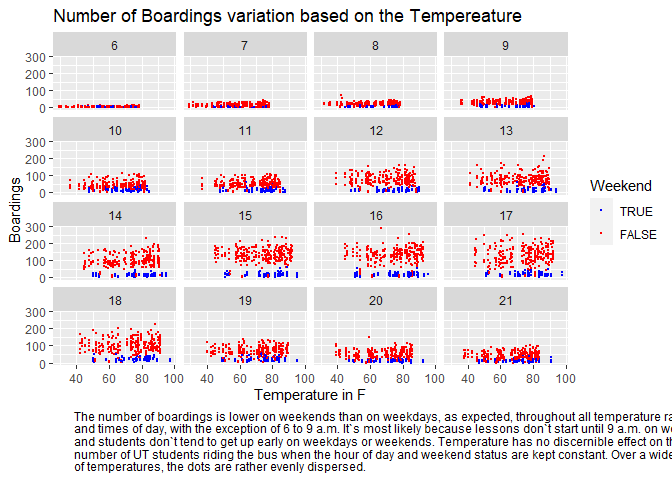
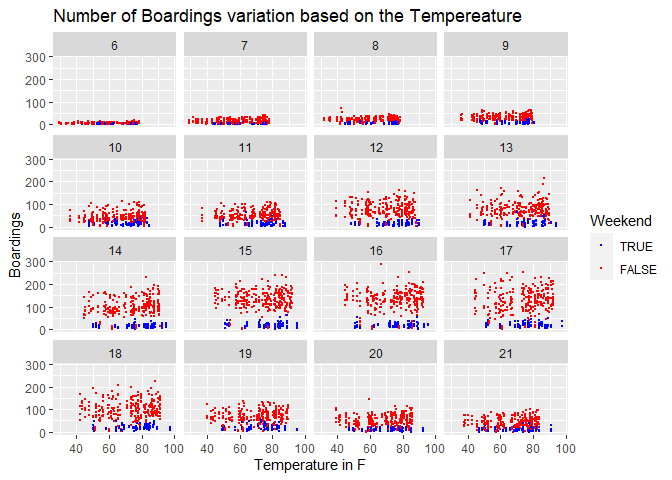
Final Commit

diff --git a/HW2_RM.md b/HW2_RM.md
@@ -2,13 +2,15 @@
 
 ![](HW2_RM_files/figure-markdown_strict/unnamed-chunk-3-1.png)
 
-### On weekdays, the average number of boardings is roughly the same, and on weekends, it drops as expected. On weekdays, the peak hour of boarding numbers remains consistent between 3 and 5 pm for all three months, owing to the fact that classes normally complete around that time. The average boardings on Mondays in September are lower due to Labor Day, which falls on the first Monday of the month, and those on Wednesdays, Thursdays, and Fridays in November due to the Thanksgiving holidays)
+### On weekdays, the average number of boardings is roughly the same, and on weekends, it drops as expected. On weekdays, the peak hour of boarding numbers remains consistent between 3 and 5 pm for all three months, owing to the fact that classes normally complete around that time. The average boardings on Mondays in September are lower due to Labor Day, which falls on the first Monday of the month, and those on Wednesdays, Thursdays, and Fridays in November due to the Thanksgiving holidays).
 
 ![](HW2_RM_files/figure-markdown_strict/unnamed-chunk-5-1.png)
 
+### The number of boardings is lower on weekends than on weekdays, as expected, throughout all temperature ranges and times of day, with the exception of 6 to 9 a.m. It’s most likely because lessons don’t start until 9 a.m. on weekdays, and students don’t tend to get up early on weekdays or weekends. Temperature has no discernible effect on the number of UT students riding the bus when the hour of day and weekend status are kept constant. Over a wide range of temperatures, the dots are rather evenly dispersed.
+
 ## Question 2. Saratoga house prices
 
-### The linear model seems better at achieving lower out-of sample mean-squared error. This model is particularly useful since it allows us to identify which variables have a substantial impact on property prices. House prices are influenced by factors such as lot size, land value, living area, waterfront, and central air conditioning. All of them have a positive relationship with home prices.
+### The linear model appears to have a better out-of-sample mean-squared error. This model is especially useful since it enables us to determine which variables have a significant impact on property values. Lot size, property value, living area, waterfront, and central air conditioning are all elements that influence house pricing. They all have a favorable correlation with housing prices.
 
 ### Output for linear regression model is as follows:
 
@@ -19,48 +21,48 @@
     ## 
     ## Residuals:
     ##     Min      1Q  Median      3Q     Max 
-    ## -220402  -34540   -5128   27705  461251 
+    ## -225936  -35206   -5168   28230  459848 
     ## 
     ## Coefficients:
     ##                          Estimate Std. Error t value Pr(>|t|)    
-    ## (Intercept)             1.847e+05  2.306e+04   8.010 2.25e-15 ***
-    ## lotSize                 1.012e+04  2.368e+03   4.273 2.05e-05 ***
-    ## age                    -7.807e+01  5.974e+01  -1.307  0.19152    
-    ## landValue               8.539e-01  4.917e-02  17.367  < 2e-16 ***
-    ## livingArea              6.782e+01  4.896e+00  13.853  < 2e-16 ***
-    ## bedrooms               -8.189e+03  2.721e+03  -3.009  0.00266 ** 
-    ## fireplaces              2.347e+03  3.067e+03   0.765  0.44426    
-    ## bathrooms               3.299e+03  7.854e+03   0.420  0.67449    
-    ## rooms                  -1.592e+03  2.134e+03  -0.746  0.45567    
-    ## heatinghot water/steam -8.792e+03  4.350e+03  -2.021  0.04345 *  
-    ## heatingelectric        -1.445e+03  1.254e+04  -0.115  0.90825    
-    ## fuelelectric           -7.236e+03  1.232e+04  -0.587  0.55702    
-    ## fueloil                -3.536e+03  4.961e+03  -0.713  0.47612    
-    ## waterfrontNo           -1.204e+05  1.716e+04  -7.017 3.40e-12 ***
-    ## centralAirNo           -9.728e+03  3.588e+03  -2.711  0.00678 ** 
-    ## bathrooms:rooms         2.410e+03  9.851e+02   2.446  0.01455 *  
+    ## (Intercept)             1.935e+05  2.217e+04   8.726  < 2e-16 ***
+    ## lotSize                 1.011e+04  2.372e+03   4.263 2.14e-05 ***
+    ## age                    -6.664e+01  6.026e+01  -1.106 0.269004    
+    ## landValue               8.556e-01  4.813e-02  17.778  < 2e-16 ***
+    ## livingArea              6.477e+01  4.960e+00  13.059  < 2e-16 ***
+    ## bedrooms               -7.028e+03  2.701e+03  -2.602 0.009351 ** 
+    ## fireplaces              3.146e+03  3.123e+03   1.007 0.313913    
+    ## bathrooms               5.870e+03  7.864e+03   0.746 0.455520    
+    ## rooms                  -1.689e+03  2.145e+03  -0.787 0.431172    
+    ## heatinghot water/steam -7.486e+03  4.383e+03  -1.708 0.087866 .  
+    ## heatingelectric         2.880e+03  1.291e+04   0.223 0.823526    
+    ## fuelelectric           -1.401e+04  1.274e+04  -1.099 0.271801    
+    ## fueloil                -6.805e+03  5.035e+03  -1.352 0.176730    
+    ## waterfrontNo           -1.267e+05  1.552e+04  -8.162 6.79e-16 ***
+    ## centralAirNo           -1.300e+04  3.617e+03  -3.593 0.000337 ***
+    ## bathrooms:rooms         2.202e+03  9.800e+02   2.247 0.024786 *  
     ## ---
     ## Signif. codes:  0 '***' 0.001 '**' 0.01 '*' 0.05 '.' 0.1 ' ' 1
     ## 
-    ## Residual standard error: 57800 on 1539 degrees of freedom
-    ## Multiple R-squared:  0.6547, Adjusted R-squared:  0.6513 
-    ## F-statistic: 194.5 on 15 and 1539 DF,  p-value: < 2.2e-16
+    ## Residual standard error: 58460 on 1539 degrees of freedom
+    ## Multiple R-squared:  0.6539, Adjusted R-squared:  0.6505 
+    ## F-statistic: 193.9 on 15 and 1539 DF,  p-value: < 2.2e-16
 
 ## Question 3. Classification and retrospective sampling
 
 ![](HW2_RM_files/figure-markdown_strict/unnamed-chunk-11-1.png)
 
     ##         (Intercept)            duration              amount         installment 
-    ##                0.44                1.03                1.00                1.29 
+    ##                0.41                1.03                1.00                1.33 
     ##                 age         historypoor     historyterrible          purposeedu 
-    ##                0.98                0.27                0.12                1.32 
+    ##                0.98                0.35                0.14                2.12 
     ## purposegoods/repair       purposenewcar      purposeusedcar       foreigngerman 
-    ##                1.16                2.44                0.58                0.37
+    ##                1.19                2.66                0.44                0.14
 
     ##    yhat
     ## y     0   1
-    ##   0 161  15
-    ##   1  60  14
+    ##   0 160  26
+    ##   1  45  19
 
 <table>
 <thead>
@@ -111,14 +113,14 @@
 </tr>
 <tr class="even">
 <td style="text-align: left;">baseline2</td>
-<td style="text-align: right;">0.0558459</td>
-<td style="text-align: right;">0.0016681</td>
+<td style="text-align: right;">0.0453920</td>
+<td style="text-align: right;">0.0014505</td>
 <td style="text-align: right;">0.7</td>
 </tr>
 <tr class="odd">
 <td style="text-align: left;">LPM</td>
-<td style="text-align: right;">0.0283356</td>
-<td style="text-align: right;">0.0008945</td>
+<td style="text-align: right;">0.0277854</td>
+<td style="text-align: right;">0.0009912</td>
 <td style="text-align: right;">0.7</td>
 </tr>
 <tr class="even">
@@ -129,32 +131,32 @@
 </tr>
 <tr class="odd">
 <td style="text-align: left;">baseline2</td>
-<td style="text-align: right;">0.0921596</td>
-<td style="text-align: right;">0.0029252</td>
+<td style="text-align: right;">0.0803301</td>
+<td style="text-align: right;">0.0032636</td>
 <td style="text-align: right;">0.5</td>
 </tr>
 <tr class="even">
 <td style="text-align: left;">LPM</td>
-<td style="text-align: right;">0.0902338</td>
-<td style="text-align: right;">0.0034329</td>
+<td style="text-align: right;">0.0797799</td>
+<td style="text-align: right;">0.0036988</td>
 <td style="text-align: right;">0.5</td>
 </tr>
 <tr class="odd">
 <td style="text-align: left;">baseline1</td>
-<td style="text-align: right;">0.0002751</td>
+<td style="text-align: right;">0.0000000</td>
 <td style="text-align: right;">0.0000000</td>
 <td style="text-align: right;">0.2</td>
 </tr>
 <tr class="even">
 <td style="text-align: left;">baseline2</td>
-<td style="text-align: right;">0.1389271</td>
-<td style="text-align: right;">0.0109755</td>
+<td style="text-align: right;">0.1224209</td>
+<td style="text-align: right;">0.0118699</td>
 <td style="text-align: right;">0.2</td>
 </tr>
 <tr class="odd">
 <td style="text-align: left;">LPM</td>
-<td style="text-align: right;">0.1345254</td>
-<td style="text-align: right;">0.0122567</td>
+<td style="text-align: right;">0.1185695</td>
+<td style="text-align: right;">0.0127886</td>
 <td style="text-align: right;">0.2</td>
 </tr>
 </tbody>
@@ -180,131 +182,131 @@
 <tbody>
 <tr class="odd">
 <td style="text-align: left;">Fold01</td>
-<td style="text-align: left;">19</td>
-<td style="text-align: left;">19</td>
+<td style="text-align: left;">20</td>
+<td style="text-align: left;">20</td>
 <td style="text-align: left;">0</td>
 </tr>
 <tr class="even">
 <td style="text-align: left;">Fold02</td>
 <td style="text-align: left;">22</td>
-<td style="text-align: left;">21</td>
-<td style="text-align: left;">-1</td>
-</tr>
-<tr class="odd">
-<td style="text-align: left;">Fold03</td>
-<td style="text-align: left;">22</td>
-<td style="text-align: left;">20</td>
-<td style="text-align: left;">-2</td>
-</tr>
-<tr class="even">
-<td style="text-align: left;">Fold04</td>
-<td style="text-align: left;">18</td>
-<td style="text-align: left;">24</td>
-<td style="text-align: left;">6</td>
-</tr>
-<tr class="odd">
-<td style="text-align: left;">Fold05</td>
-<td style="text-align: left;">22</td>
-<td style="text-align: left;">20</td>
-<td style="text-align: left;">-2</td>
-</tr>
-<tr class="even">
-<td style="text-align: left;">Fold06</td>
-<td style="text-align: left;">18</td>
-<td style="text-align: left;">21</td>
+<td style="text-align: left;">25</td>
 <td style="text-align: left;">3</td>
 </tr>
 <tr class="odd">
-<td style="text-align: left;">Fold07</td>
-<td style="text-align: left;">22</td>
-<td style="text-align: left;">21</td>
-<td style="text-align: left;">-1</td>
-</tr>
-<tr class="even">
-<td style="text-align: left;">Fold08</td>
-<td style="text-align: left;">18</td>
+<td style="text-align: left;">Fold03</td>
 <td style="text-align: left;">19</td>
-<td style="text-align: left;">1</td>
-</tr>
-<tr class="odd">
-<td style="text-align: left;">Fold09</td>
-<td style="text-align: left;">18</td>
-<td style="text-align: left;">16</td>
-<td style="text-align: left;">-2</td>
-</tr>
-<tr class="even">
-<td style="text-align: left;">Fold10</td>
-<td style="text-align: left;">20</td>
-<td style="text-align: left;">19</td>
-<td style="text-align: left;">-1</td>
-</tr>
-<tr class="odd">
-<td style="text-align: left;">Fold11</td>
 <td style="text-align: left;">23</td>
-<td style="text-align: left;">20</td>
-<td style="text-align: left;">-3</td>
+<td style="text-align: left;">4</td>
 </tr>
 <tr class="even">
-<td style="text-align: left;">Fold12</td>
+<td style="text-align: left;">Fold04</td>
 <td style="text-align: left;">23</td>
 <td style="text-align: left;">28</td>
 <td style="text-align: left;">5</td>
 </tr>
 <tr class="odd">
-<td style="text-align: left;">Fold13</td>
+<td style="text-align: left;">Fold05</td>
 <td style="text-align: left;">22</td>
-<td style="text-align: left;">20</td>
+<td style="text-align: left;">22</td>
+<td style="text-align: left;">0</td>
+</tr>
+<tr class="even">
+<td style="text-align: left;">Fold06</td>
+<td style="text-align: left;">19</td>
+<td style="text-align: left;">28</td>
+<td style="text-align: left;">9</td>
+</tr>
+<tr class="odd">
+<td style="text-align: left;">Fold07</td>
+<td style="text-align: left;">22</td>
+<td style="text-align: left;">22</td>
+<td style="text-align: left;">0</td>
+</tr>
+<tr class="even">
+<td style="text-align: left;">Fold08</td>
+<td style="text-align: left;">18</td>
+<td style="text-align: left;">14</td>
+<td style="text-align: left;">-4</td>
+</tr>
+<tr class="odd">
+<td style="text-align: left;">Fold09</td>
+<td style="text-align: left;">23</td>
+<td style="text-align: left;">21</td>
 <td style="text-align: left;">-2</td>
+</tr>
+<tr class="even">
+<td style="text-align: left;">Fold10</td>
+<td style="text-align: left;">23</td>
+<td style="text-align: left;">14</td>
+<td style="text-align: left;">-9</td>
+</tr>
+<tr class="odd">
+<td style="text-align: left;">Fold11</td>
+<td style="text-align: left;">22</td>
+<td style="text-align: left;">16</td>
+<td style="text-align: left;">-6</td>
+</tr>
+<tr class="even">
+<td style="text-align: left;">Fold12</td>
+<td style="text-align: left;">20</td>
+<td style="text-align: left;">14</td>
+<td style="text-align: left;">-6</td>
+</tr>
+<tr class="odd">
+<td style="text-align: left;">Fold13</td>
+<td style="text-align: left;">19</td>
+<td style="text-align: left;">18</td>
+<td style="text-align: left;">-1</td>
 </tr>
 <tr class="even">
 <td style="text-align: left;">Fold14</td>
 <td style="text-align: left;">22</td>
-<td style="text-align: left;">22</td>
-<td style="text-align: left;">0</td>
+<td style="text-align: left;">23</td>
+<td style="text-align: left;">1</td>
 </tr>
 <tr class="odd">
 <td style="text-align: left;">Fold15</td>
+<td style="text-align: left;">22</td>
 <td style="text-align: left;">18</td>
-<td style="text-align: left;">18</td>
-<td style="text-align: left;">0</td>
+<td style="text-align: left;">-4</td>
 </tr>
 <tr class="even">
 <td style="text-align: left;">Fold16</td>
-<td style="text-align: left;">18</td>
-<td style="text-align: left;">11</td>
+<td style="text-align: left;">23</td>
+<td style="text-align: left;">16</td>
 <td style="text-align: left;">-7</td>
 </tr>
 <tr class="odd">
 <td style="text-align: left;">Fold17</td>
-<td style="text-align: left;">18</td>
-<td style="text-align: left;">17</td>
-<td style="text-align: left;">-1</td>
+<td style="text-align: left;">19</td>
+<td style="text-align: left;">21</td>
+<td style="text-align: left;">2</td>
 </tr>
 <tr class="even">
 <td style="text-align: left;">Fold18</td>
-<td style="text-align: left;">19</td>
-<td style="text-align: left;">24</td>
-<td style="text-align: left;">5</td>
+<td style="text-align: left;">20</td>
+<td style="text-align: left;">17</td>
+<td style="text-align: left;">-3</td>
 </tr>
 <tr class="odd">
 <td style="text-align: left;">Fold19</td>
-<td style="text-align: left;">22</td>
-<td style="text-align: left;">20</td>
+<td style="text-align: left;">23</td>
+<td style="text-align: left;">21</td>
 <td style="text-align: left;">-2</td>
 </tr>
 <tr class="even">
 <td style="text-align: left;">Fold20</td>
-<td style="text-align: left;">24</td>
-<td style="text-align: left;">22</td>
-<td style="text-align: left;">-2</td>
+<td style="text-align: left;">18</td>
+<td style="text-align: left;">21</td>
+<td style="text-align: left;">3</td>
 </tr>
 <tr class="odd">
 <td style="text-align: left;">Total</td>
-<td style="text-align: left;">408</td>
+<td style="text-align: left;">419</td>
 <td style="text-align: left;">402</td>
-<td style="text-align: left;">6</td>
+<td style="text-align: left;">17</td>
 </tr>
 </tbody>
 </table>
 
-### The model does the prediction pretty well. It only got 6 predictions wrong in total out of 4999 observations though if you look at each folds individually there is a difference as in sometimes we have negative and sometimes positive values, but in total it all averages out to 6.
+### The model does the prediction pretty well. It only got 17 predictions wrong in total out of 4999 observations though if you look at each folds individually there is a difference as in sometimes we have negative and sometimes positive values, but in total it all averages out to 17.
